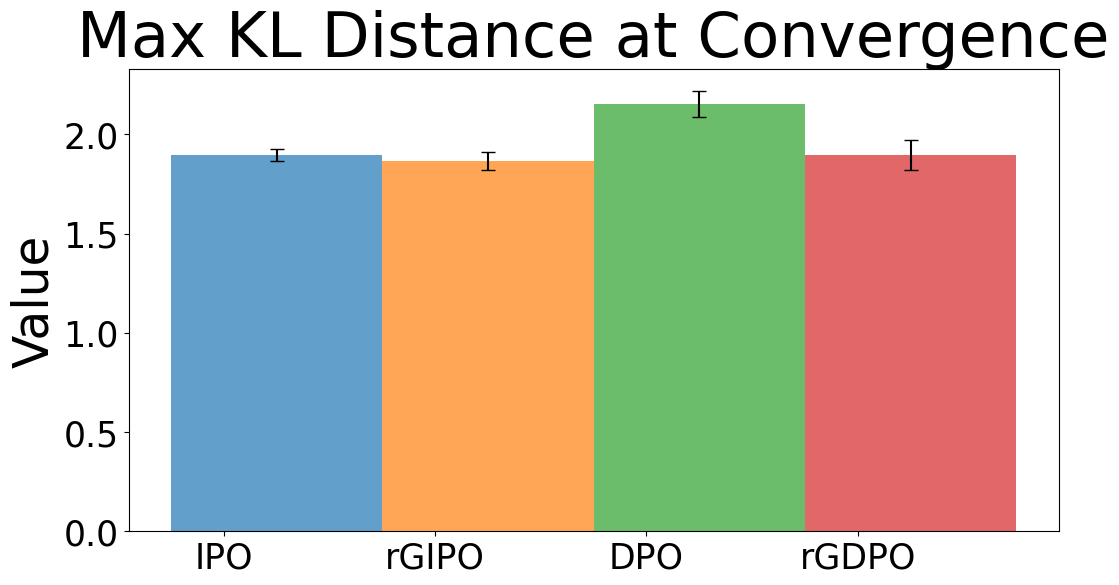
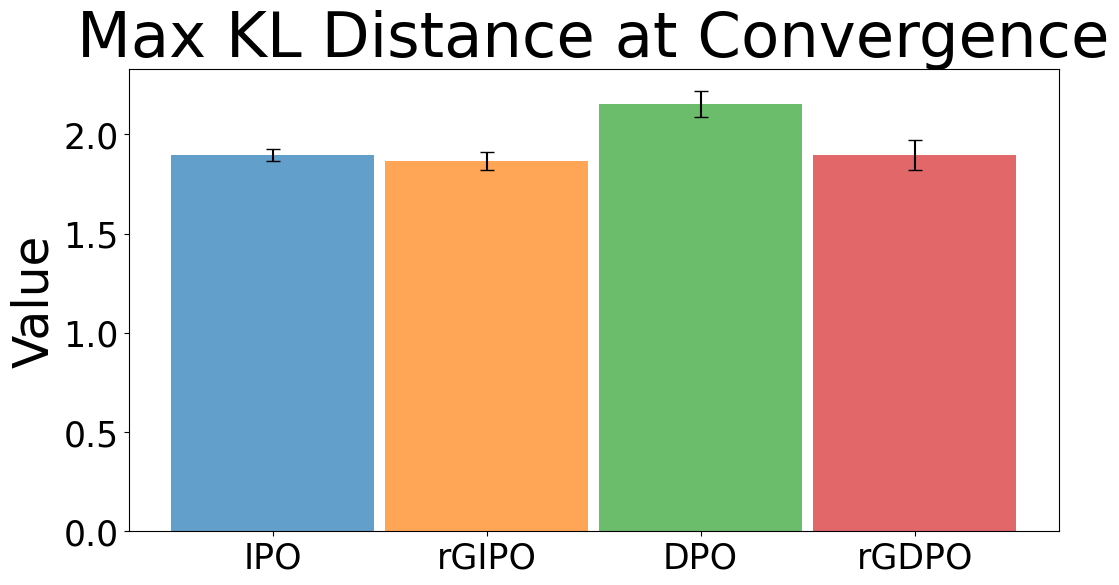
bar spaces, formatting

diff --git a/wandb_data_collect_script_final_simplified.py b/wandb_data_collect_script_final_simplified.py
@@ -11,7 +11,7 @@ from visualisations_utils_wandb_api import (
 
 import os
 import neatplot
-#neatplot.set_style()
+neatplot.set_style()
 
 # Constants and configurations
 ENTITY = 'robust-rl-project'
@@ -183,10 +183,9 @@ def plot_metric_bars(metric_config, filters_dicts, group_names, subfolder_path, 
         
         bar_width = 0.1 if 'group_loss' in metric_config['metrics'][0] else 0.2
         offset = i * bar_width
-        gap_offset = bar_width / 10
-        positions = np.arange(len(metrics_end_avg)) + offset + gap_offset
+        positions = np.arange(len(metrics_end_avg)) + offset
         
-        plt.bar(positions, height=metrics_end_avg, yerr=metrics_end_sem, width=bar_width, capsize=5, alpha=0.7, label=f'{algo}')
+        plt.bar(positions, height=metrics_end_avg, yerr=metrics_end_sem, width=bar_width*0.95, capsize=5, alpha=0.7, label=f'{algo}')
         #plt.gca().invert_yaxis()
     
     if 'Max' not in metric_config['title']:
